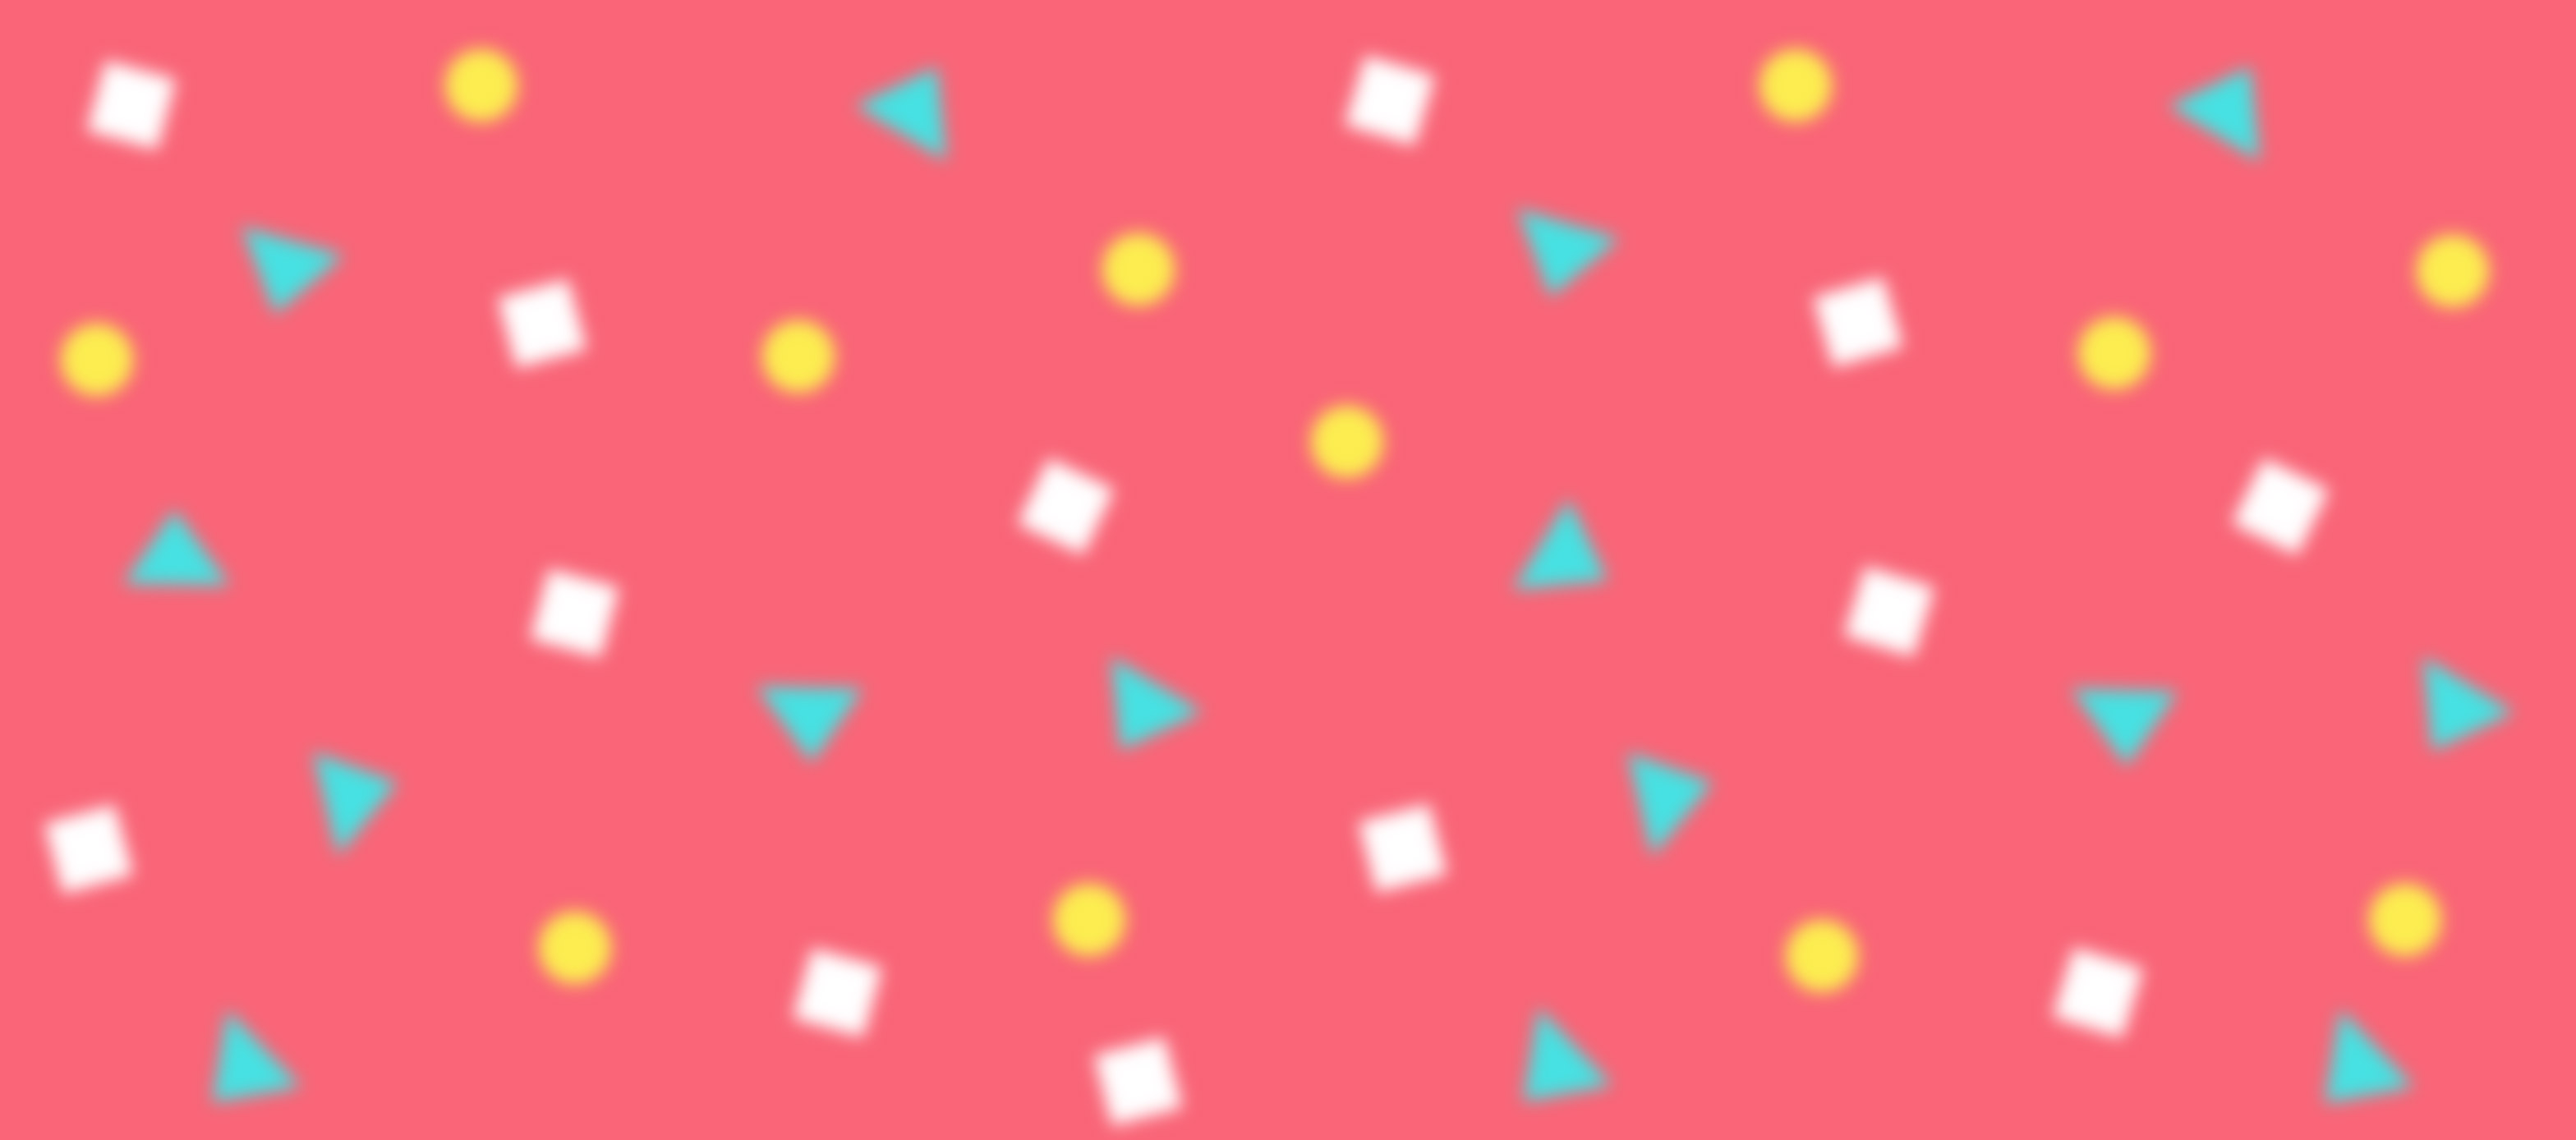
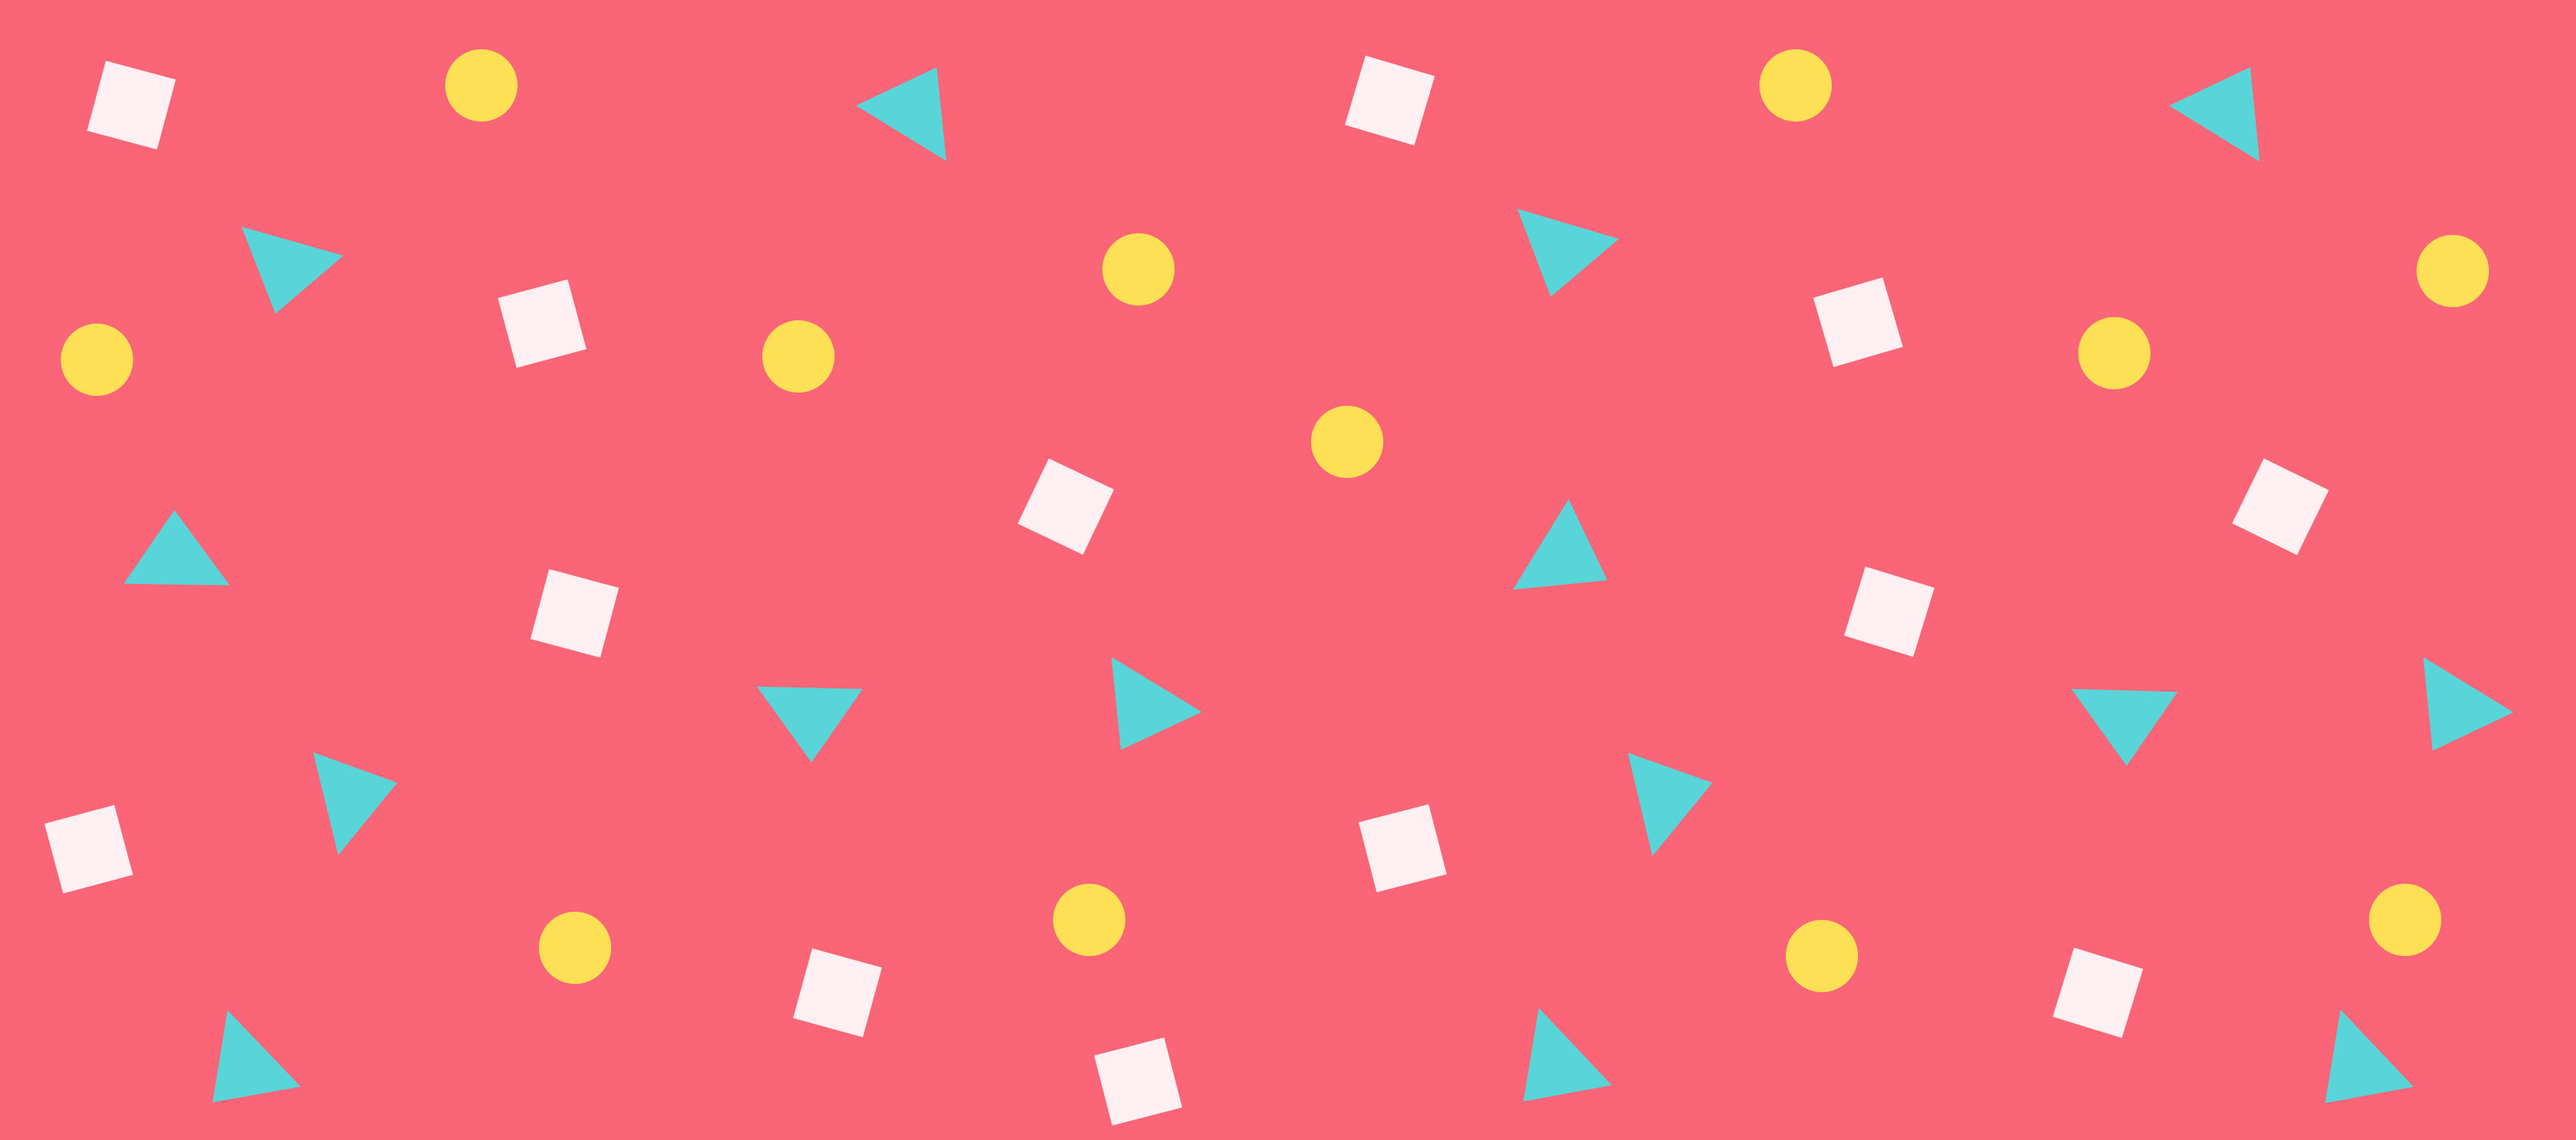
Updated newsletter bg image

diff --git a/style.css b/style.css
@@ -199,7 +199,7 @@ body {
   background-color: #F96577;
   background-repeat: repeat;
   background-attachment: fixed;
-  background-image: url(images/bg-newsletter@2x.png);
+  background-image: url(images/bg-newsletter@2x.jpg);
   background-size: 784px 347px;
   background-size: 60% auto; }
 
